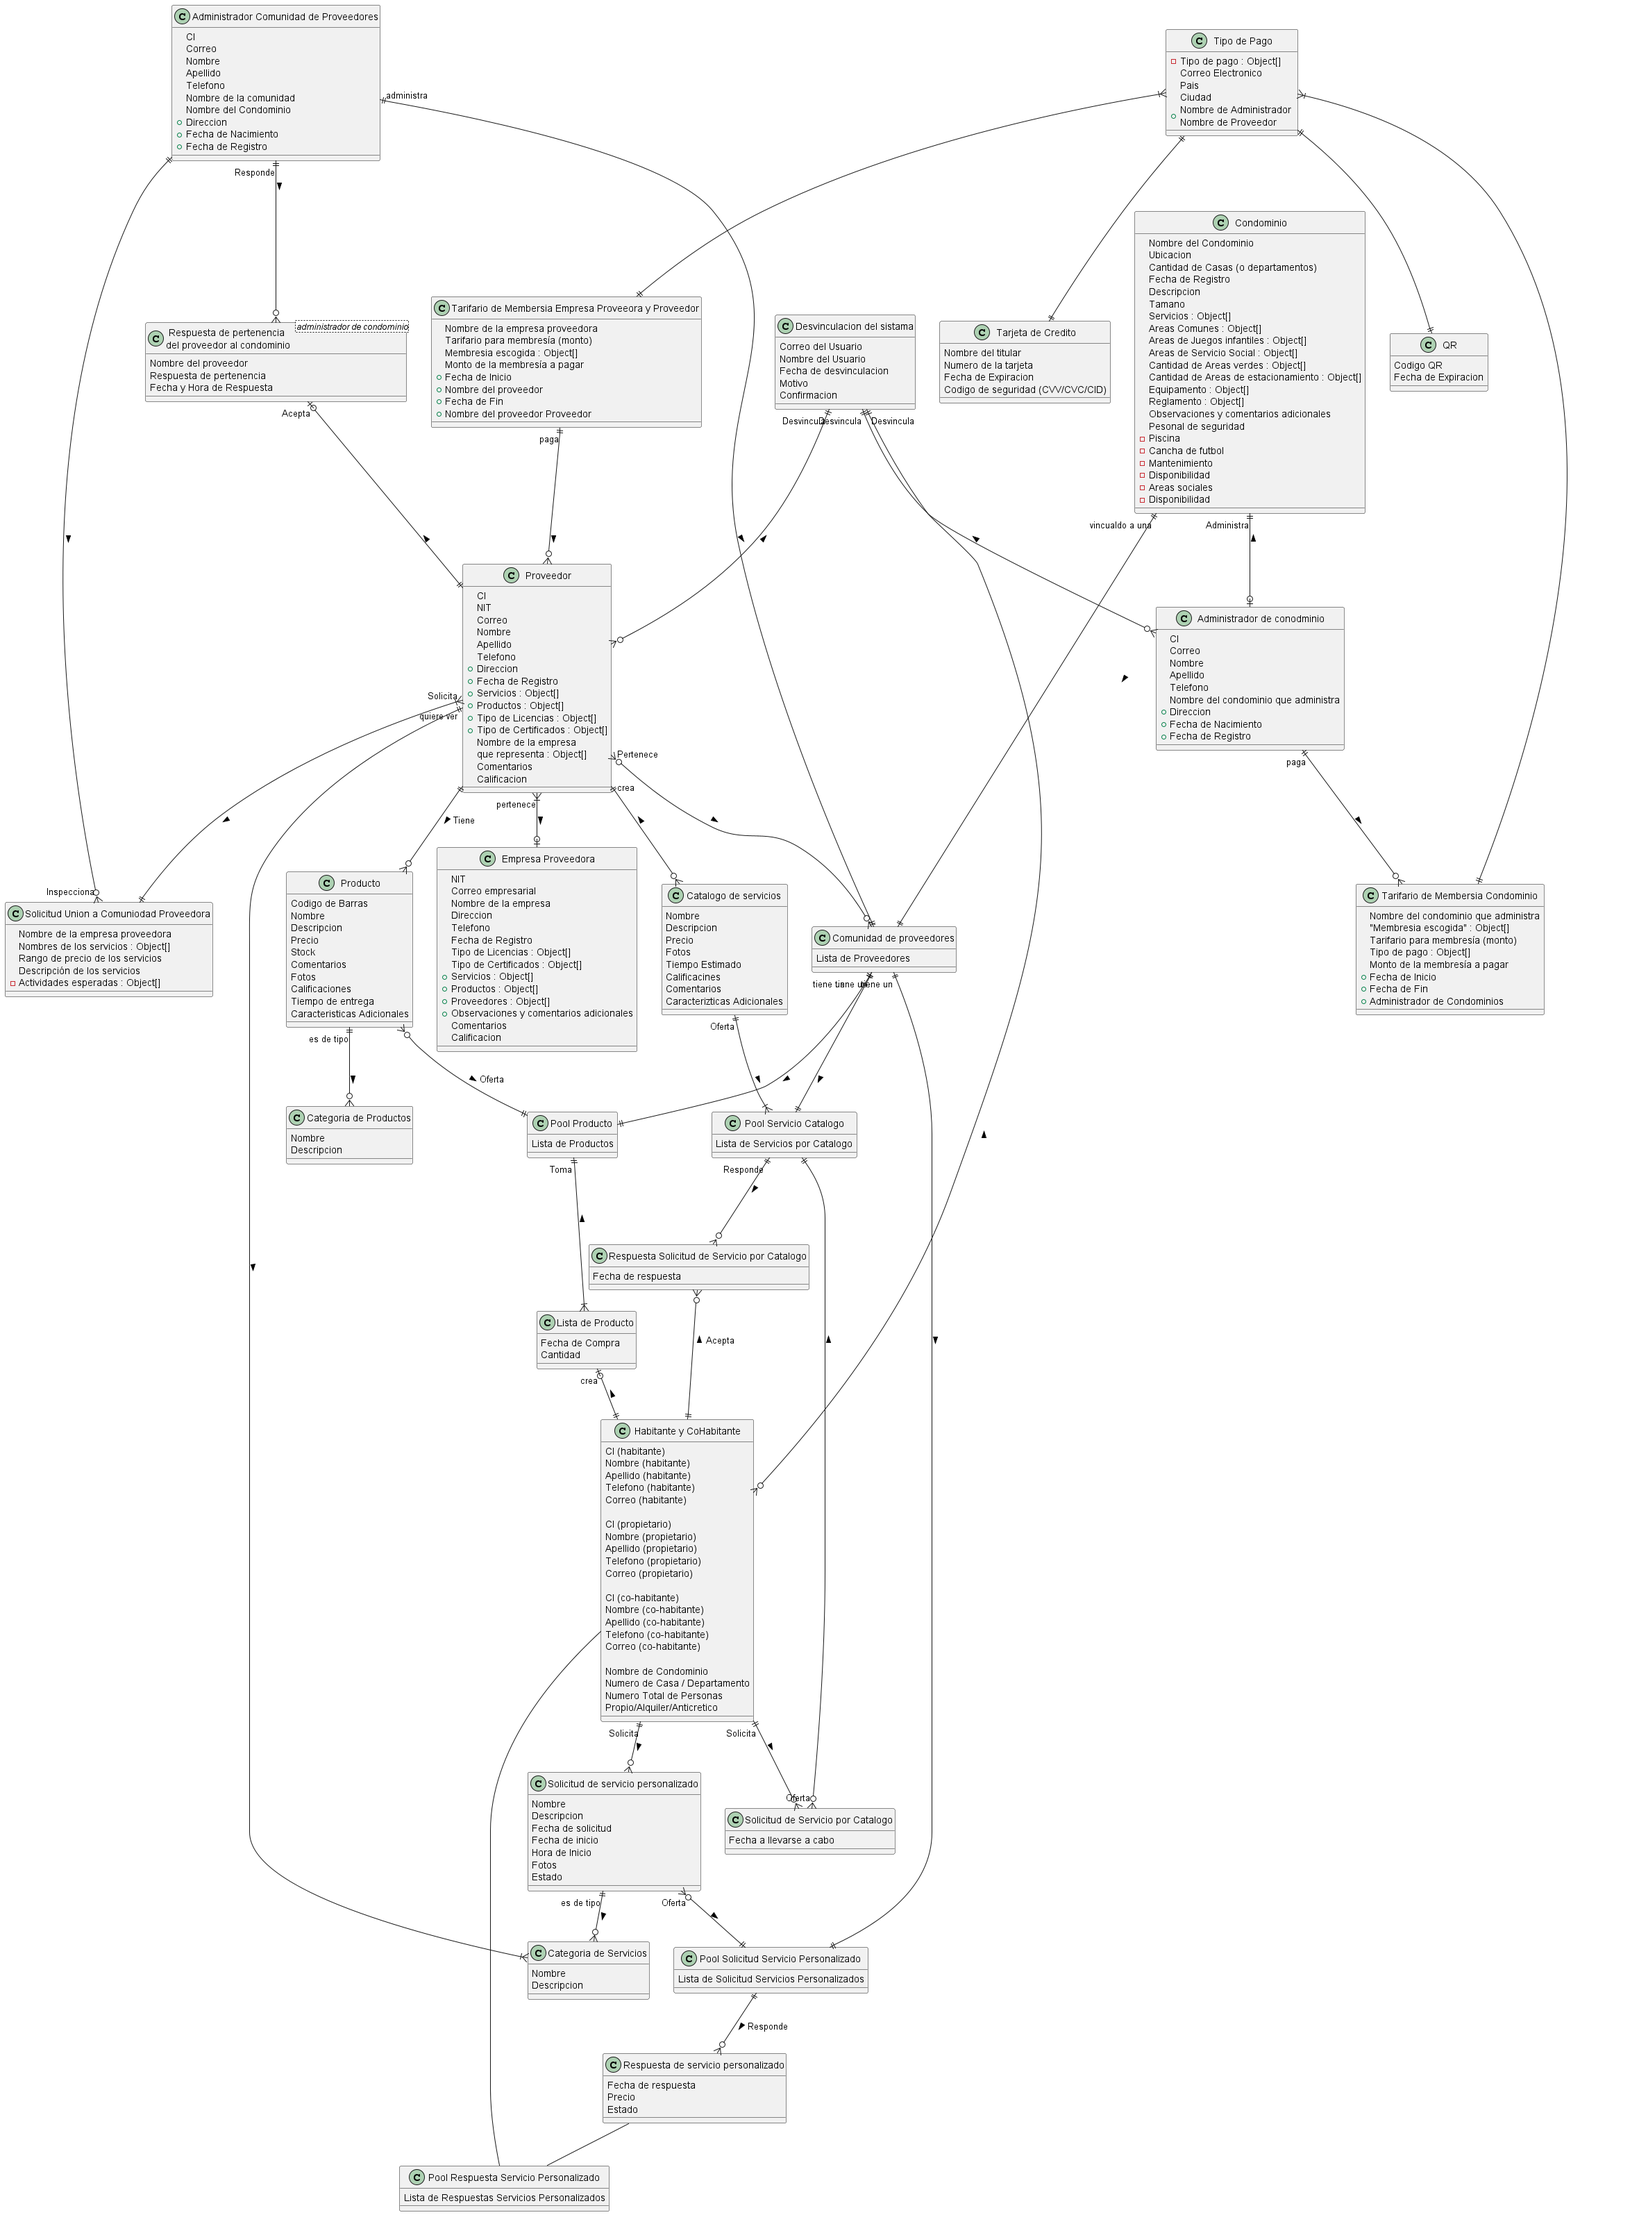
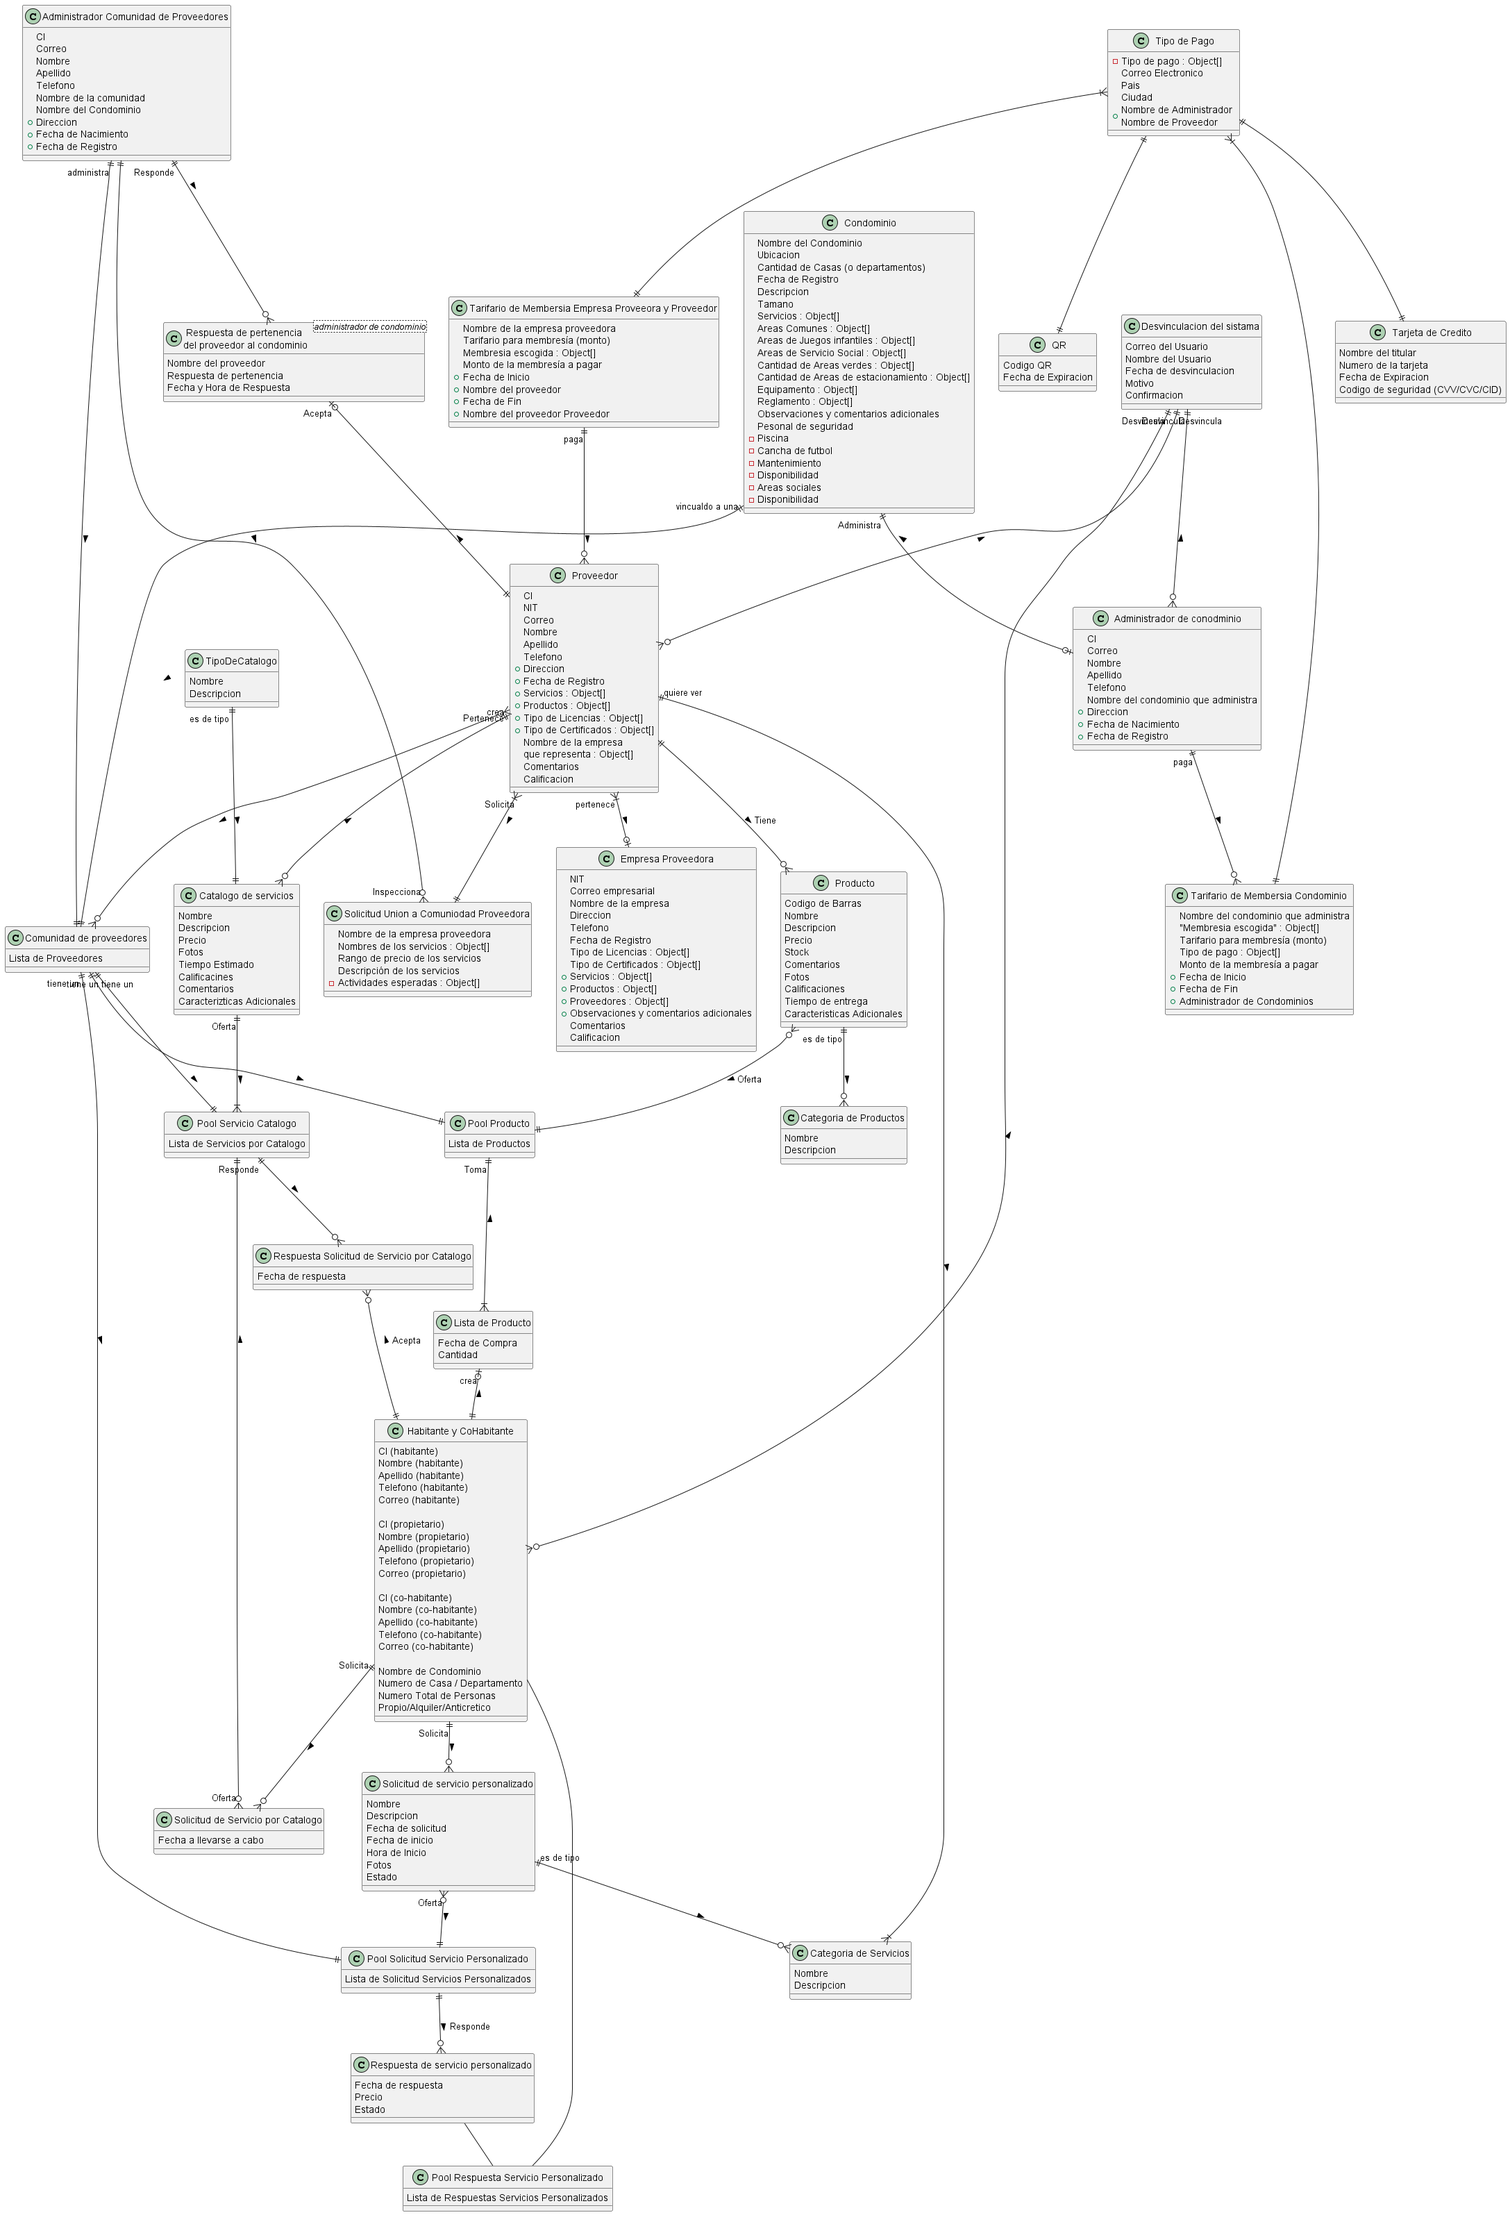
docs

diff --git a/README.md b/README.md
@@ -3,6 +3,11 @@
 # Indice
 [Casos de Uso](#casos-de-uso)
 
+Flujo Servicio por Catalogo
+- [CU13: Seleccionar de servicio por catalogo]()
+- [CU14: Gestionar catalogo de servicio]()
+- [CU15: Gestionar respuesta del servicio por catálogo al solicitante]()
+
 Flujo Servicio Personalizado
 - [CU16: Gestionar Solicitud de Servicio Personalizado](#cu16-gestionar-solicitud-de-servicio-personalizado)
 - [CU17: Gestionar y Responder a Solicitudes de Servicio Personalizado](#cu17-gestionar-y-responder-a-solicitudes-de-servicio-personalizado)
@@ -10,14 +15,81 @@ Flujo Servicio Personalizado
 
 Flujo Productos
 
-Flujo Servicio por Catalogo
-
 Flujo Tarifa de Membresia
 
 Flujo Solicitud de Pertenencia
 
+Flujo de Perfiles
+
 
 # Casos de Uso
+
+## CU14: Gestionar Catalogo de Servicio
+
+**Tipo de Caso de uso:** Primario 
+
+**Actores:** Proveedor (primario), Habitante y CoHabitante (secundario)
+
+**Precondicion:** El proveedor ya se encuentra registrado y ya ingreso sesion. 
+
+**Resumen**: El proveedor crea su catálogo de servicios ingresando el nombre de cada servicio ofrecido, una descripción detallada, los precios y, opcionalmente, fotos si es necesario. Luego, procede a enviar el catálogo al pool de servicios correspondiente. Además, el proveedor tiene la capacidad de modificar, eliminar y listar todos sus servicios en el catálogo.
+
+**Poscondicion:** El servicio es posteado en el pool de servicios por catalogo y sistema envia notificacion de que se publico exitosamente.  
+
+**Caminos Alternativos:**
+1.  **Descripcion no valida:** La descripcion es muy corta o no hay, el sistema notifica el error. 
+2. **Precios no establecidos:** Los precios no fueron establecidos correctamente y sale mensaje de error. 
+3. **No hay nombre:** El proveedor no puso un nombre y el sistema notifiaca que necesita escribir un nombre. 
+
+### Diagrama de Caso de Uso
+![Use Case Diagram]()
+
+### Diagrama de Secuencia
+![Secuence Diagram]()
+
+### Diagrama de Colaboracion
+![Colaboration Diagram]()
+
+### CO01: Listar Servicios por Catalogo
+
+- **Operacion:** 
+- **Referencia cruzadas:** 
+- **Precondicion:** 
+- **Postcondicion:** 
+
+#### Diagrama de Secuencia
+![Secuence Diagram]()
+
+#### Diagrama de Colaboracion
+![Colaboration Diagram]()
+
+### CO02: Eliminar Servicio por Catalogo
+
+- **Operacion:** 
+- **Referencia cruzadas:** 
+- **Precondicion:** 
+- **Postcondicion:** 
+
+#### Diagrama de Secuencia
+![Secuence Diagram]()
+
+#### Diagrama de Colaboracion
+![Colaboration Diagram]()
+
+### CO03: Modificar Servicio por Catalogo
+
+- **Operacion:** 
+- **Referencia cruzadas:** 
+- **Precondicion:** 
+- **Postcondicion:** 
+
+#### Diagrama de Secuencia
+![Secuence Diagram]()
+
+#### Diagrama de Colaboracion
+![Colaboration Diagram]()
+
+
 ## CU16: Gestionar Solicitud de Servicio Personalizado
 
 **Tipo de Caso de uso:** Primario
